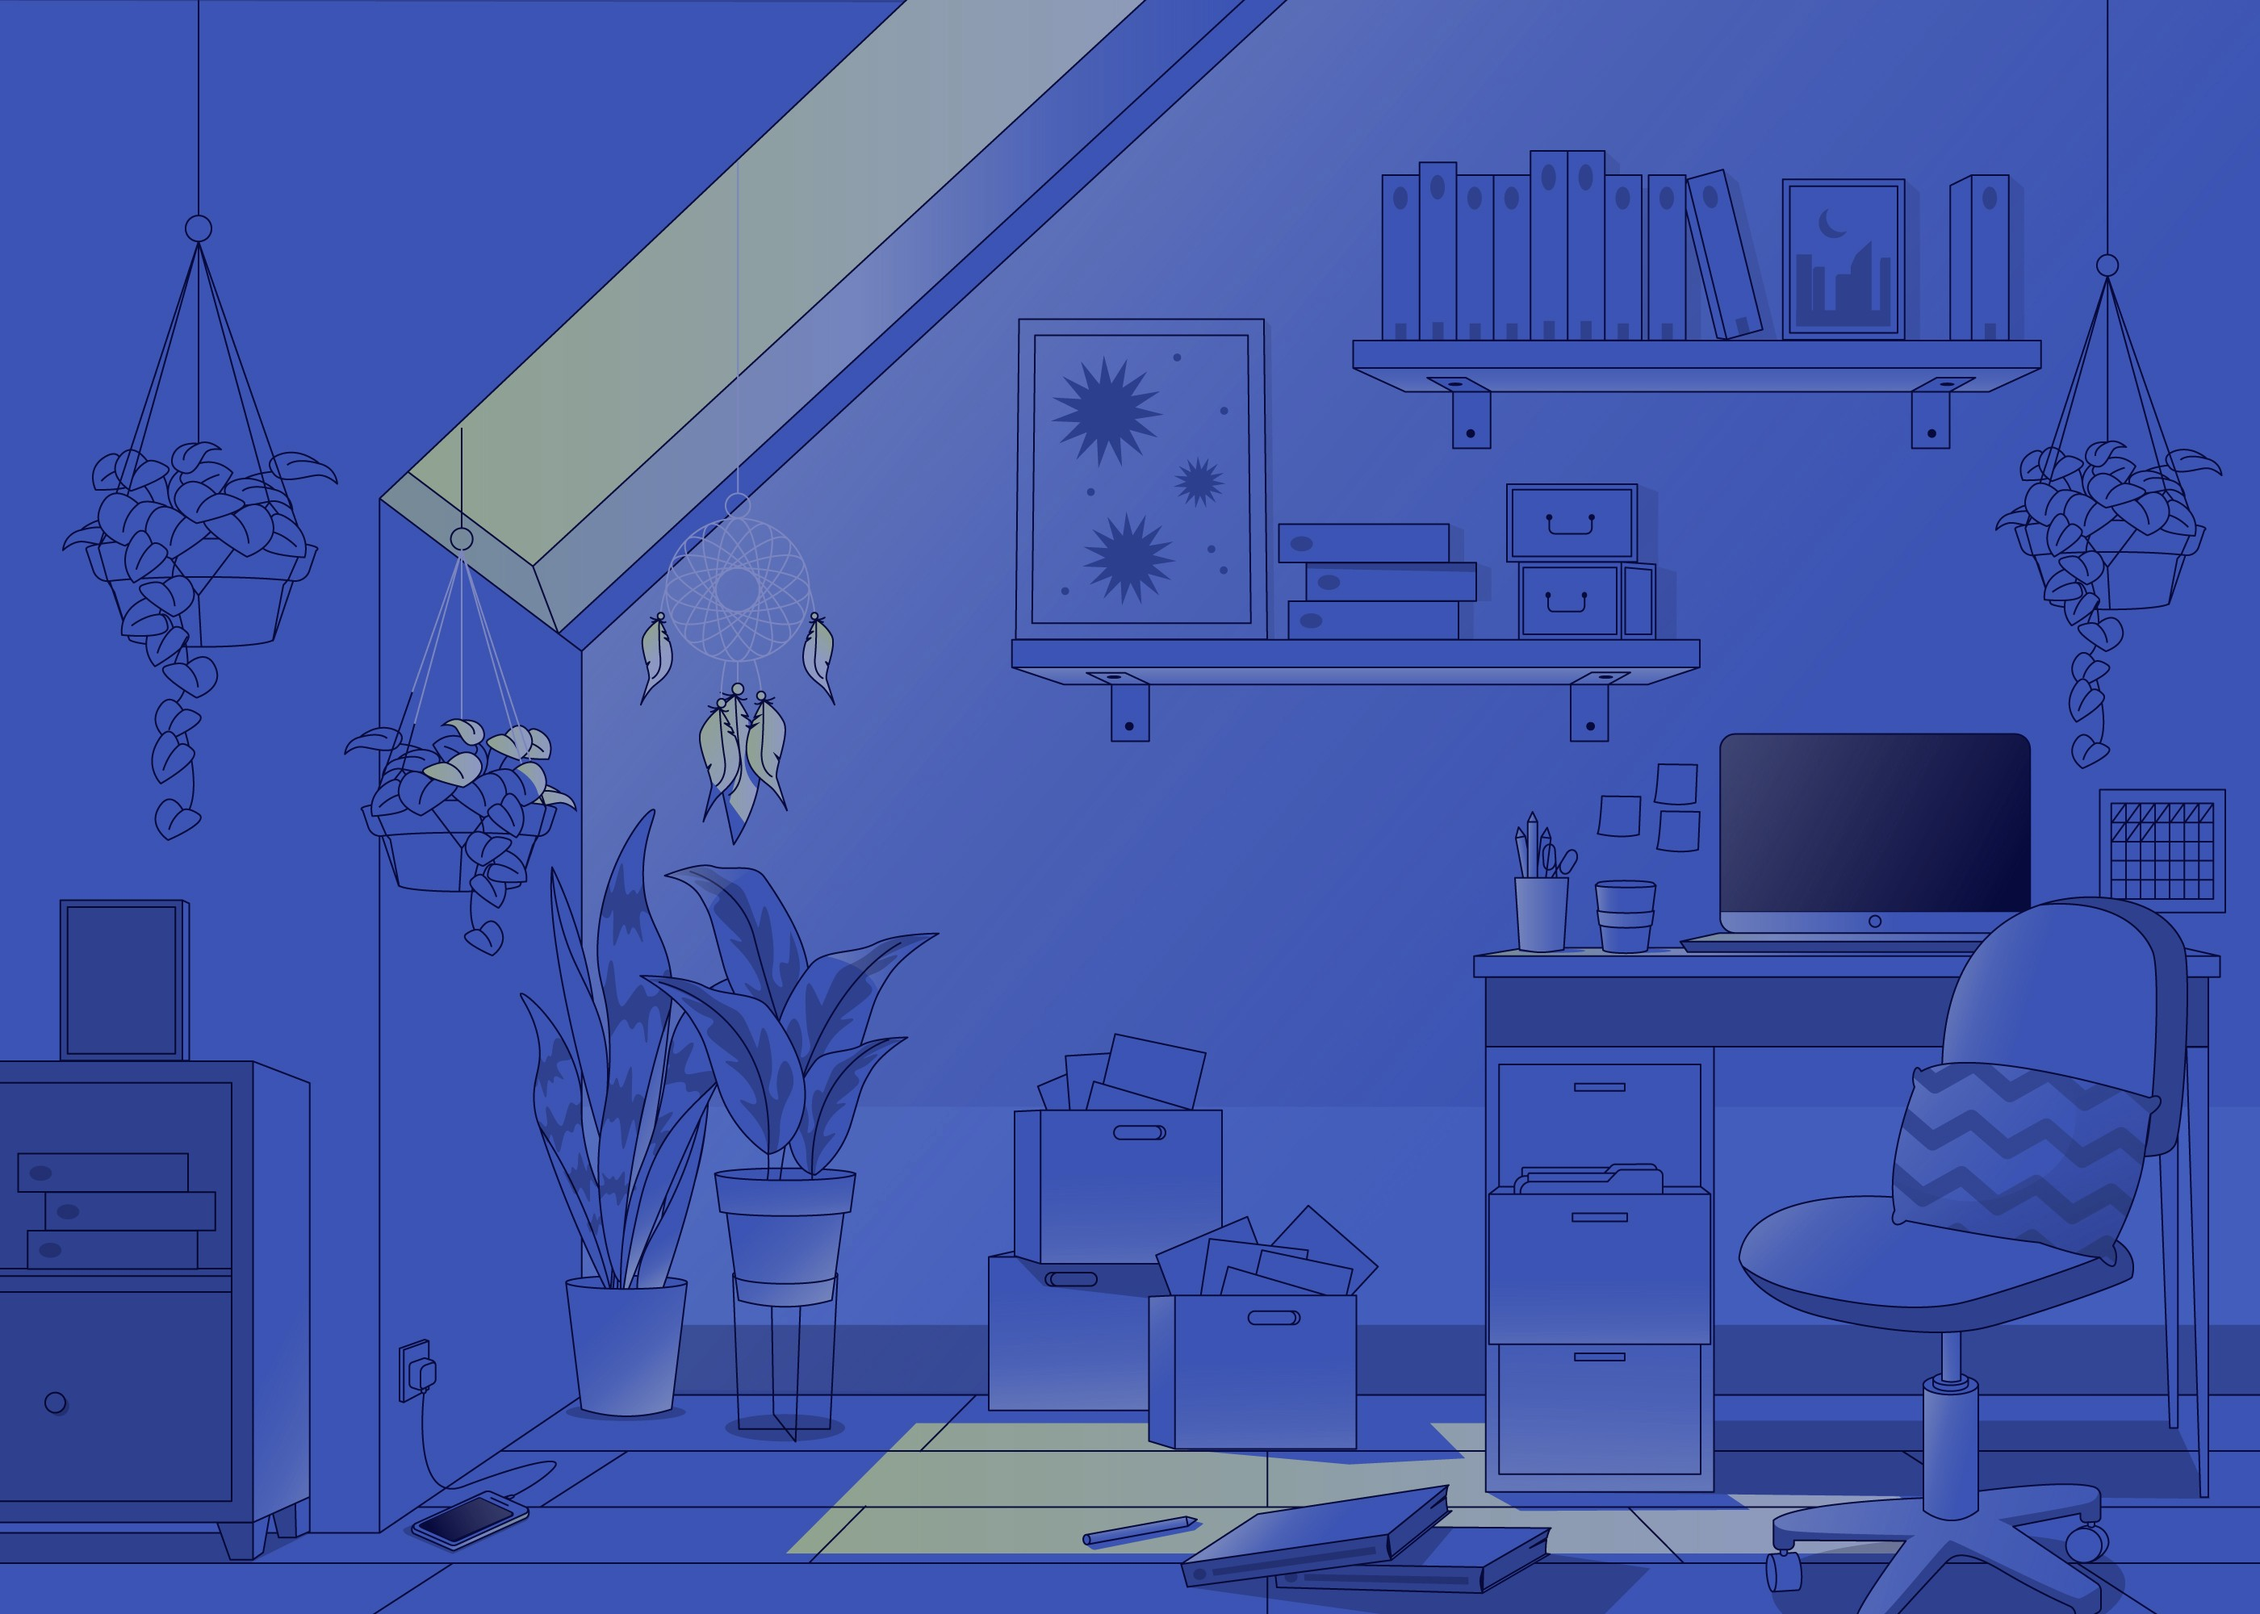
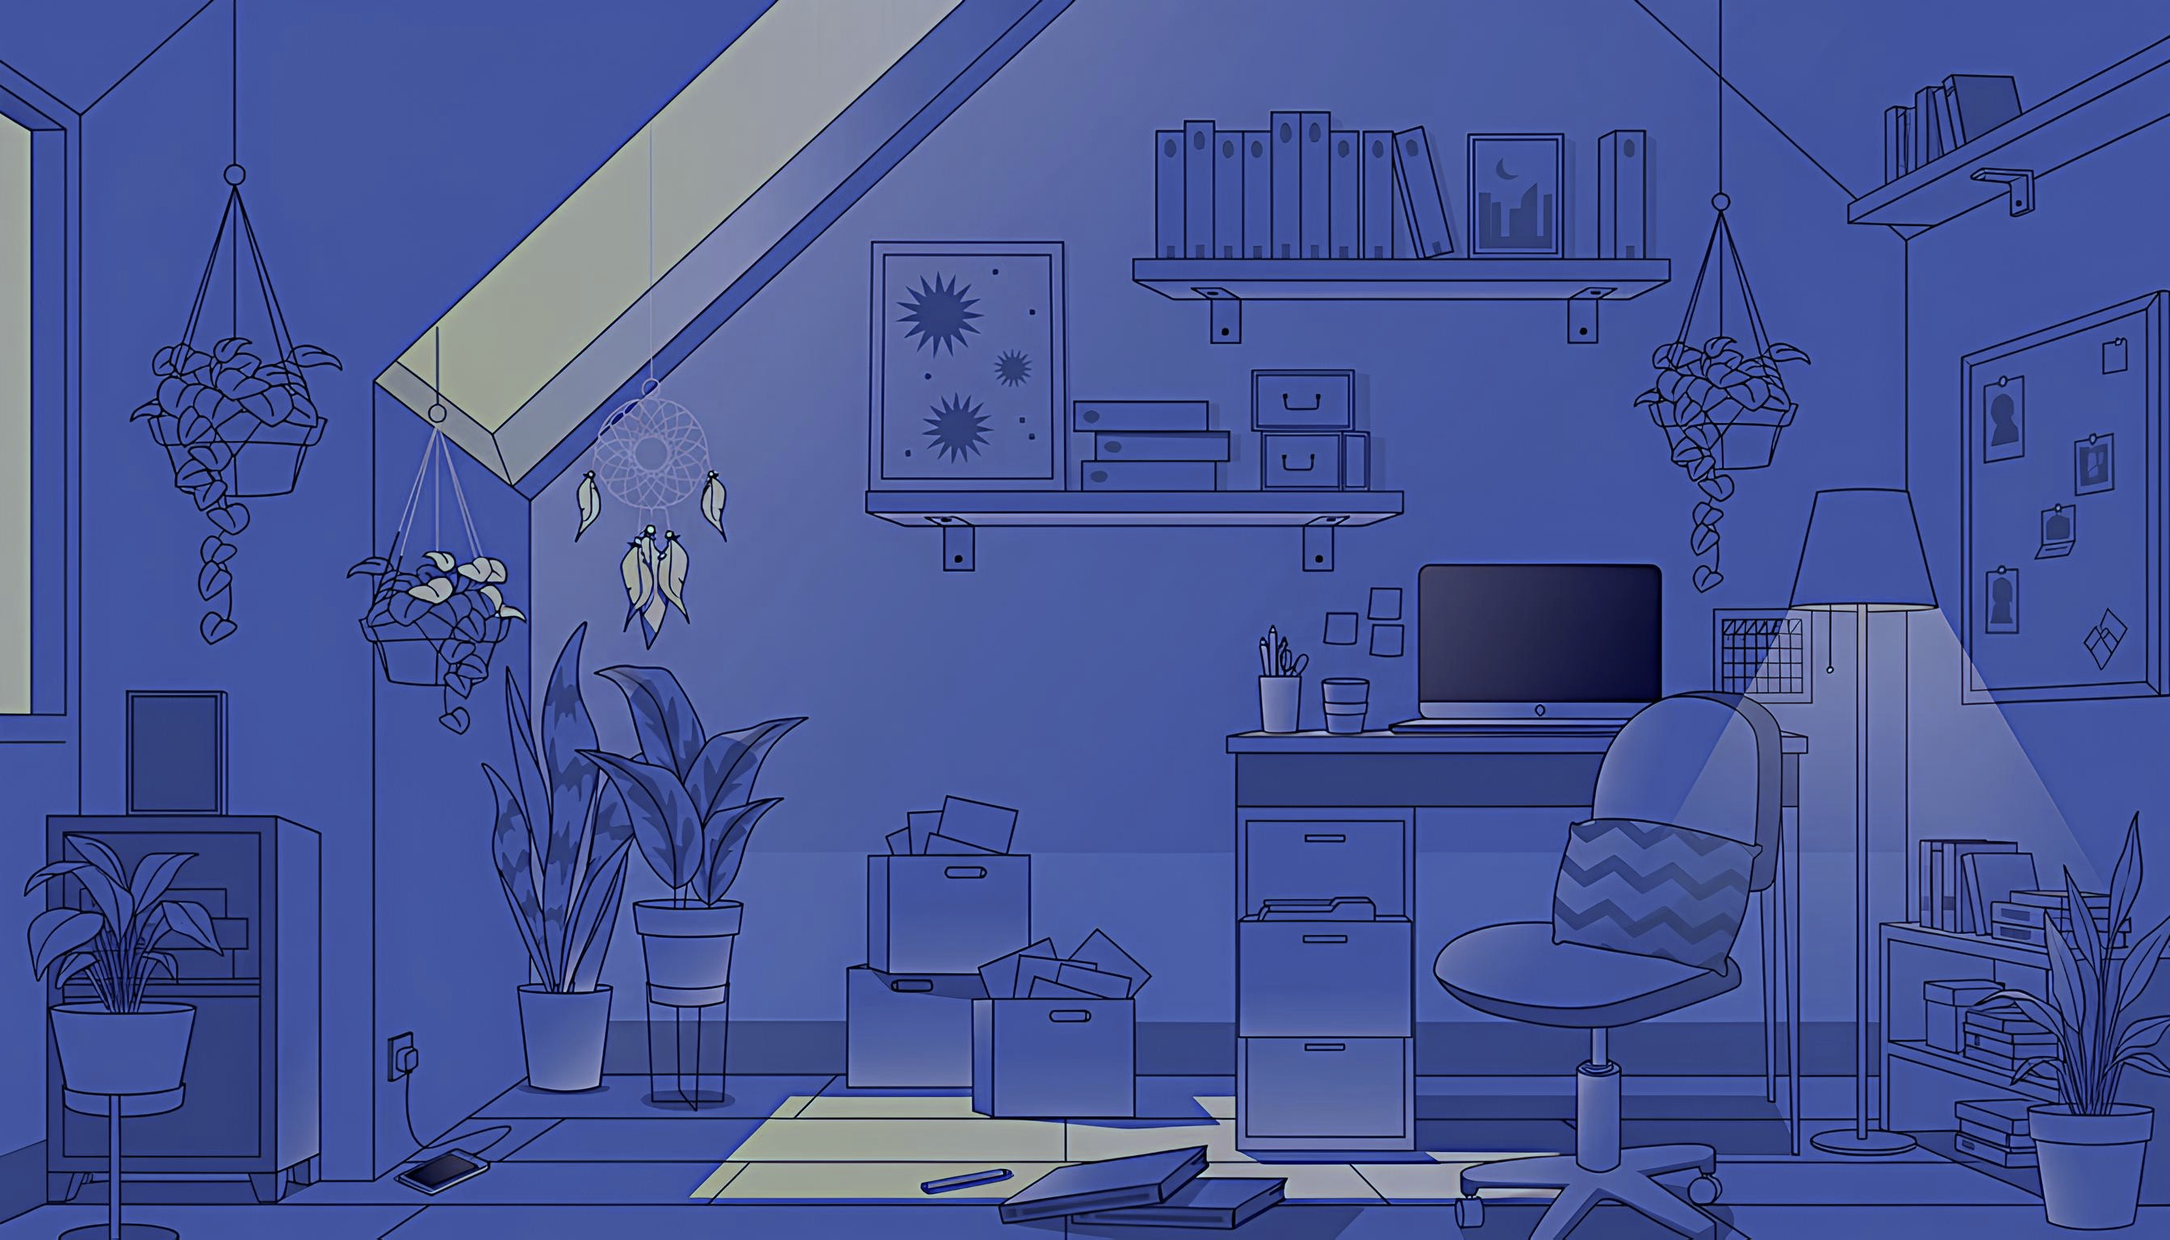
Buttons and modal for LOTR project added

diff --git a/app/routes/_index.jsx b/app/routes/_index.jsx
@@ -1,6 +1,9 @@
 import styles from '../styles/home.module.css'
+import { useState } from 'react'
 import { useTheme } from '../context/ThemeContext'
 import { FontAwesomeIcon } from '@fortawesome/react-fontawesome'
+
+
 
 export const meta = () => {
   return [
@@ -10,22 +13,65 @@ export const meta = () => {
 }
 
 export default function Home() {
-  const { theme, toggleTheme, isHydrated } = useTheme()
+  const { theme, toggleTheme } = useTheme()
+  const [activeModal, setActiveModal] = useState(null)
+
+  const openModal = (modalName) => setActiveModal(modalName)
+  const closeModal = () => setActiveModal(null)
 
   return (
     <div className={`${styles.homeContainer} ${styles[theme]}`}>
-      {isHydrated && (
-        <button
-          className={styles.themeToggle}
-          onClick={toggleTheme}
-          aria-label="Toggle theme"
-        >
-          {theme === 'dark' ? (
-            <img src="/public/sun-icon.svg" alt="Switch to light mode" />
-          ) : (
-            <img src="/public/moon-icon.svg" alt="Switch to dark mode" />
-          )}
-        </button>
+
+      <button
+        className={styles.themeToggle}
+        onClick={toggleTheme}
+        aria-label="Toggle theme"
+      >
+        {theme === 'dark' ? (
+          <img src="/icons/sun-icon.svg" alt="Switch to light mode" />
+        ) : (
+          <img src="/icons/moon-icon.svg" alt="Switch to dark mode" />
+        )}
+      </button>
+      <button
+        className={`${styles.projectButton} ${styles.lotrButton}`}
+        onClick={() => openModal('lotr')}
+        aria-label="LOTR"
+      >
+        {theme === 'dark' ? (
+          <img src="/buttons/tlor-button-dark.jpg" alt="TLOR Encylopedia Dark" />
+        ) : (
+          <img src="/buttons/tlor-button-light.jpg" alt="TLOR Encylopedia Light" />
+        )}
+      </button>
+
+      {activeModal && (
+        <div className={styles.modalOverlay} onClick={closeModal}>
+          <div className={styles.modalContent} onClick={(e) => e.stopPropagation()}>
+            <button className={styles.closeBtn} onClick={closeModal}>×</button>
+            {activeModal === 'lotr' && (
+              <div>
+                <h5>The Lord of the Rings Encyclopedia</h5>
+                <h6>Modern LOTR Encyclopedia with Advanced Animations</h6>
+                <ul>
+                  <li>Built with React Router v7 (SSR), Vite, and CSS Modules</li>
+                  <li>Secure API integration using resource routes as serverless proxies to protect bearer tokens</li>
+                  <li>Advanced WebGL animations with React Bits and custom light ray effects</li>
+                  <li>GSAP-powered interactive menu with directional animations</li>
+                  <li>Responsive design with lazy loading and code splitting</li>
+                </ul>
+                <div className={styles.modalButtons}>
+                  <button className={styles.iconBtn}>
+                    <FontAwesomeIcon icon={['fab', 'github']} /> 
+                  </button>
+                  <button className={styles.iconBtn}>
+                    <FontAwesomeIcon icon="display" /> 
+                  </button>
+                </div>
+              </div>
+            )}
+          </div>
+        </div>
       )}
     </div>
   )

diff --git a/app/styles/home.module.css b/app/styles/home.module.css
@@ -4,15 +4,16 @@
   background-size: contain;
   background-position: center;
   background-repeat: no-repeat;
-  background-color: #282e3d; /* match image edge color to fill gaps */
+  background-color: #282e3d;
+  position: relative;
 }
 
 .light {
-  background-image: url("/img/background2.jpg");
+  background-image: url("/img/background.jpg");
 }
 
 .dark {
-  background-image: url("/img/background-night2.jpg");
+  background-image: url("/img/background-night.jpg");
 }
 
 .themeToggle {
@@ -36,4 +37,111 @@
   width: 100%;
   height: 100%;
   object-fit: contain;
+}
+
+/* Project buttons - adjust position for each */
+.projectButton {
+  position: absolute;
+  padding: 10px;
+  background: none;
+  border: none;
+  border-radius: 8px;
+  cursor: pointer;
+  width: 100px;
+  height: 100px;
+  display: flex;
+  align-items: center;
+  justify-content: center;
+  overflow: hidden;
+  transition: transform 0.2s ease;
+}
+
+.projectButton:hover {
+  transform: scale(1.05);
+}
+
+.projectButton img {
+  width: 100%;
+  height: 100%;
+  object-fit: contain;
+}
+
+/* Position your LOTR button - adjust these values */
+.lotrButton {
+  top: 60px;
+  left: 460px;
+}
+
+/* Modal styles */
+.modalOverlay {
+  position: fixed;
+  inset: 0;
+  background: rgba(0, 0, 0, 0.7);
+  display: flex;
+  align-items: center;
+  justify-content: center;
+  z-index: 1000;
+}
+
+.modalContent {
+  background: #2a2f3d;
+  color: #e0e0e0;
+  padding: 2rem;
+  border-radius: 12px;
+  max-width: 500px;
+  width: 90%;
+  position: relative;
+}
+
+.closeBtn {
+  position: absolute;
+  top: 10px;
+  right: 15px;
+  background: none;
+  border: none;
+  font-size: 1.5rem;
+  color: #e0e0e0;
+  cursor: pointer;
+}
+
+.closeBtn:hover {
+  color: #fff;
+}
+
+.modalContent h5 {
+  margin-bottom: 0.5rem;
+}
+
+.modalContent h6 {
+  color: #a0a0a0;
+  margin-bottom: 1rem;
+}
+
+.modalContent ul {
+  padding-left: 1.2rem;
+  margin-bottom: 1.5rem;
+}
+
+.modalContent li {
+  margin-bottom: 0.5rem;
+}
+
+/* Modal buttons */
+.modalButtons {
+  display: flex;
+  gap: 10px;
+}
+
+.iconBtn {
+  padding: 10px 15px;
+  background: #3d4a6b;
+  border: none;
+  border-radius: 6px;
+  color: #e0e0e0;
+  cursor: pointer;
+  transition: background 0.2s ease;
+}
+
+.iconBtn:hover {
+  background: #4d5a7b;
 }

diff --git a/app/entry.client.jsx b/app/entry.client.jsx
@@ -2,10 +2,10 @@ import { startTransition } from 'react'
 import { hydrateRoot } from 'react-dom/client'
 import { HydratedRouter } from 'react-router/dom'
 
-// import 'bootstrap/dist/js/bootstrap.bundle.min.js'
+import 'bootstrap/dist/js/bootstrap.bundle.min.js'
 
-// // Initialize FontAwesome library
-// import './utils/fontAwesomeLibrary'
+// Initialize FontAwesome library
+import './utils/fontAwesomeLibrary'
 
 startTransition(() => {
   hydrateRoot(document, <HydratedRouter />)

diff --git a/app/components/HtmlShell.jsx b/app/components/HtmlShell.jsx
@@ -23,7 +23,7 @@ export default function HtmlShell({
           href="https://cdn.jsdelivr.net/npm/bootstrap@5.3.8/dist/css/bootstrap.min.css"
           rel="stylesheet"
         />
-        <link rel="icon" type="image/svg+xml" href="/pen.svg" />
+        <link rel="icon" type="image/svg+xml" href="./pen-icon.svg" />
         <title>{title}</title>
         <Meta />
         <Links />
